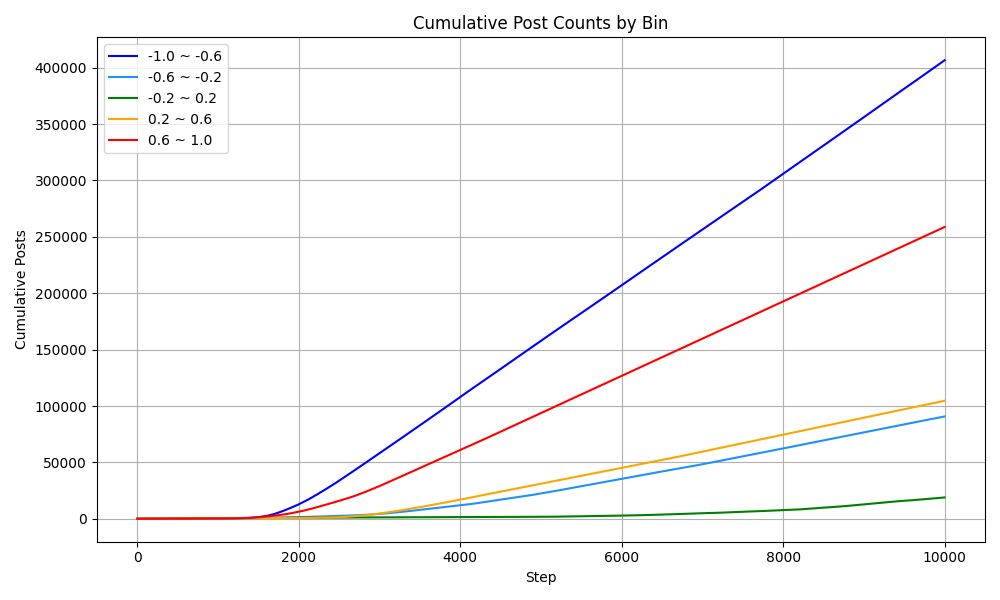
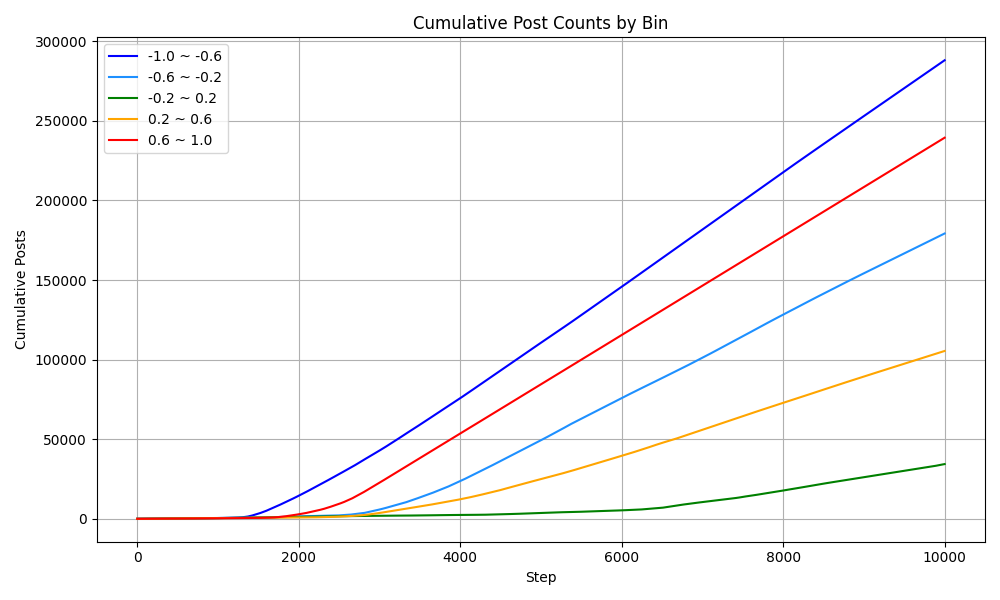
次こそopinion manipulation。5月中に成果をだす

diff --git a/src/agent/Agent.java b/src/agent/Agent.java
@@ -31,7 +31,7 @@ public class Agent {
         // this.tolerance = rand.nextDouble(); // 0〜1 の乱数
         this.tolerance = 0.8;
         this.intrinsicOpinion = Math.max(-1.0, Math.min(1.0, rand.nextGaussian() * 0.6));
-        // this.intrinsicOpinion = rand.nextDouble() * 2.0 - 1;
+        //this.intrinsicOpinion = rand.nextDouble() * 2.0 - 1;
         this.opinion = this.intrinsicOpinion;
         this.bc = Const.BOUNDED_CONFIDENCE; // 動的
         // this.numOfPosts = rand.nextInt(80) + 20;
@@ -41,10 +41,10 @@ public class Agent {
         this.feed = new int[NUM_OF_AGENTS];
         this.followRate = Const.INITIAL_FOLLOW_RATE;
         this.unfollowRate = Const.INITIAL_UNFOLLOW_RATE;
-        if(0.1 > rand.nextDouble()){
+        /*if(0.1 > rand.nextDouble()){
             this.traitor = true;
             this.intrinsicOpinion = 0.0;
-        }
+        }*/
     }
 
     // getter methods
@@ -55,6 +55,10 @@ public class Agent {
 
     public double getOpinion() {
         return this.opinion;
+    }
+
+    public double getIntrinsicOpinion(){
+        return this.intrinsicOpinion;
     }
 
     public double getTolerance() {
@@ -177,8 +181,9 @@ public class Agent {
         }
 
         this.opinion = this.tolerance * this.intrinsicOpinion + (1 - this.tolerance) * (temp / postNum);
+        //this.opinion = this.tolerance * this.opinion + (1 - this.tolerance) * (temp / postNum);
         if(this.traitor){
-            this.opinion = (temp / postNum) - 0.5;
+            //this.opinion = (temp / postNum) - 0.5;
         }
 
         if (this.opinion < -1) {

diff --git a/src/gephi/GraphVisualize.java b/src/gephi/GraphVisualize.java
@@ -60,6 +60,11 @@ public class GraphVisualize {
             graphModel.getNodeTable().addColumn("postProb", Double.class);
         }
 
+        Column shiftedOpinion = graphModel.getNodeTable().getColumn("shiftedOpinion");
+        if(shiftedOpinion == null){
+            graphModel.getNodeTable().addColumn("shiftedOpinion", Double.class);
+        }
+
         for (int i = 0; i < nodeCount; i++) {
             Node node = graphModel.factory().newNode(String.valueOf(i));
             node.setLabel("Node " + i);
@@ -68,6 +73,7 @@ public class GraphVisualize {
             node.setAttribute("opinionClass", agents[i].getOpinionClass());
             node.setAttribute("boundedConfidence", agents[i].getBc());
             node.setAttribute("postProb", agents[i].getPostProb());
+            node.setAttribute("shiftedOpinion", agents[i].getOpinion() - agents[i].getIntrinsicOpinion());
             graph.addNode(node);
         }
 
@@ -115,6 +121,7 @@ public class GraphVisualize {
                 node.setAttribute("opinionClass", agents[i].getOpinionClass());
                 node.setAttribute("boundedConfidence", agents[i].getBc());
                 node.setAttribute("postProb", agents[i].getPostProb());
+                node.setAttribute("shiftedOpinion", agents[i].getOpinion() - agents[i].getIntrinsicOpinion());
             }
         }
 
